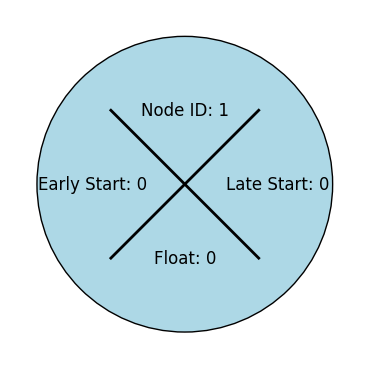
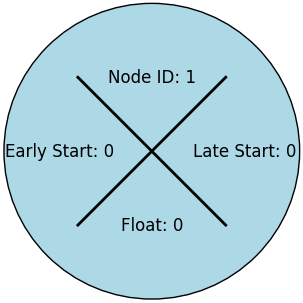
changed to reading from csv as input, added general CPM class

diff --git a/main.py b/main.py
@@ -1,75 +1,9 @@
 from Node import Czynnosc, Zdarzenie, clear_folder
-import csv
-from Node import Czynnosc, Zdarzenie
+from CPM import CPM
+from csv_read import read_csv
 
+clear_folder("nodes")
 
-def read_input_file(file_path):
-    data = []
-    with open(file_path, newline='') as csvfile:
-        reader = csv.DictReader(csvfile)
-        for row in reader:
-            data.append(row)
-    return data
+ilosc_zdarzen, zdarzenia, ilosc_czynnosci, czynnosci = read_csv("nodes.csv")
 
-
-def main():
-    file_path = input("Podaj ścieżkę do pliku CSV: ")
-    data = read_input_file(file_path)
-
-    # Initialize events and activities
-    czynnosci = []
-    zdarzenia = {}
-
-    # Create activities and events based on input data
-    for row in data:
-        name = row['name']
-        duration = int(row['duration'])
-        before_id = row['before']
-        after_id = row['after']
-
-        if before_id not in zdarzenia:
-            zdarzenia[before_id] = Zdarzenie(id=before_id)
-        if after_id not in zdarzenia:
-            zdarzenia[after_id] = Zdarzenie(id=after_id)
-
-        before_event = zdarzenia[before_id]
-        after_event = zdarzenia[after_id]
-
-        czynnosc = Czynnosc(name=name, duration=duration, before=before_event, after=after_event)
-        czynnosci.append(czynnosc)
-
-    # Calculate ti for each event
-    for czynnosc in czynnosci:
-        if czynnosc.before.ti + czynnosc.duration > czynnosc.after.ti:
-            czynnosc.after.ti = czynnosc.before.ti + czynnosc.duration
-
-    # Set tj for the last event
-    czynnosci[-1].after.tj = czynnosci[-1].after.ti
-
-    # Calculate tj for each event
-    for czynnosc in reversed(czynnosci):
-        if czynnosc.after.tj - czynnosc.duration < czynnosc.before.tj or czynnosc.before.tj == 0:
-            czynnosc.before.tj = czynnosc.after.tj - czynnosc.duration
-
-    # Calculate float for each event
-    for zdarzenie in zdarzenia.values():
-        zdarzenie.float = zdarzenie.tj - zdarzenie.ti
-
-    # Find critical path
-    sciezka_krytyczna = []
-    for zdarzenie in zdarzenia.values():
-        if zdarzenie.float == 0:
-            sciezka_krytyczna.append(zdarzenie)
-
-    # Print critical path
-    print("Zdarzenia:")
-    for zdarzenie in sorted(zdarzenia.values(), key=lambda z: int(z.id)):
-        print(f"Zdarzenie ID: {zdarzenie.id}, Ti: {zdarzenie.ti}, Tj: {zdarzenie.tj}, Float: {zdarzenie.float}")
-
-    print("\nSciezka krytyczna:")
-    for zdarzenie in sorted(sciezka_krytyczna, key=lambda z: int(z.id)):
-        print(zdarzenie.id)
-
-
-if __name__ == "__main__":
-    main()
+cpm_diagram = CPM(ilosc_zdarzen, zdarzenia, ilosc_czynnosci, czynnosci)

diff --git a/Diagram.py b/Diagram.py
@@ -1,23 +1,35 @@
-from diagrams import Diagram, Cluster
+import os
+from diagrams import Diagram, Edge
 from diagrams.custom import Custom
-from diagrams.onprem.database import Mysql
 
-def create_diagram():
+
+def create_diagram(zdarzenia_poprzedzajace_lista, zdarzenia, sciezka_krytyczna):
     # Specify the file path and format directly in the Diagram constructor
-    with Diagram("Custom Node Diagram", show=False, filename="./custom_node_diagram.png") as diag:
-        with Cluster("Nodes"):
-            # Add custom nodes with images
-            node_1 = Custom("Node 1", "./nodes/node_1.png")
-            node_2 = Custom("Node 2", "./nodes/node_2.png")
-            node_3 = Custom("Node 3", "./nodes/node_3.png")
+    with Diagram("CPM Diagram", show=False, filename="CPM_diagram",
+                 graph_attr={'size': '20,20', 'pad': '0.1'}, ) as diag:
+        # Dictionary to store nodes
+        nodes = {}
 
-            # Define the relationships between nodes
-            node_1 >> node_2
-            node_1 >> node_3
+        # Create nodes
+        for zdarzenie in zdarzenia:
+            if zdarzenie.id != "0":
+                node_name = f"Node {zdarzenie.id}"
+                node_image_path = os.path.join("nodes", f"node_{zdarzenie.id}.png")
+                node = Custom(node_name, node_image_path)
+                nodes[zdarzenie.id] = node
 
-            # Add regular nodes if needed
-            db = Mysql("Database")
-            node_2 >> db
+        # Define relationships between nodes
+        for zdarzenie in zdarzenia:
+            if zdarzenie.id != "0":
+                node = nodes[zdarzenie.id]
+                predecessors = zdarzenia_poprzedzajace_lista.get(zdarzenie.id, [])
+                for predecessor in predecessors:
+                    predecessor_id = predecessor.id
+                    predecessor_node = nodes[predecessor_id]
 
-# Call the function to create the diagram
-create_diagram()
+                    # Check if the edge belongs to the critical path
+                    if zdarzenie in sciezka_krytyczna and predecessor in sciezka_krytyczna:
+                        edge = Edge(color="red", style="bold", arrowhead="vee")
+                        predecessor_node >> edge >> node
+                    else:
+                        predecessor_node >> node

diff --git a/CPM.py b/CPM.py
@@ -1,0 +1,57 @@
+from Node import Czynnosc, Zdarzenie, clear_folder
+from Diagram import create_diagram
+
+class CPM:
+    def __init__(self, ilosc_zdarzen, zdarzenia, ilosc_czynnosci, czynnosci):
+        self.ilosc_zdarzen = ilosc_zdarzen + 1
+        self.ilosc_czynnosci = ilosc_czynnosci
+        self.zdarzenia = zdarzenia
+        self.czynnosci = czynnosci
+
+        # Calculate ti for each event
+        for czynnosc in self.czynnosci:
+            if czynnosc.before.ti + czynnosc.duration > czynnosc.after.ti:
+                czynnosc.after.ti = czynnosc.before.ti + czynnosc.duration
+
+        czynnosci[-1].after.tj = czynnosci[-1].after.ti
+
+        # Calculate tj for each event
+        for czynnosc in reversed(czynnosci):
+            if czynnosc.after.tj - czynnosc.duration < czynnosc.before.tj or czynnosc.before.tj == 0:
+                czynnosc.before.tj = czynnosc.after.tj - czynnosc.duration
+
+        for zdarzenie in zdarzenia:
+            zdarzenie.float = zdarzenie.tj - zdarzenie.ti
+
+        for czynnosc in self.czynnosci:
+            print(czynnosc.name, czynnosc.before.ti, czynnosc.before.tj, czynnosc.after.ti, czynnosc.after.tj)
+
+        sciezka_krytyczna = []
+        for zdarzenie in zdarzenia:
+            if zdarzenie.float == 0:
+                sciezka_krytyczna.append(zdarzenie)
+
+        for zdarzenie in zdarzenia:
+            if zdarzenie.id != "0":
+                zdarzenie.draw()
+                # print(zdarzenie)
+
+        # print("Sciezka krytyczna:")
+        # for zdarzenie in sciezka_krytyczna:
+        #     print(zdarzenie.id)
+
+        # Define a dictionary to store events leading into each event
+        events_leading_to = {z.id: [] for z in zdarzenia}
+
+        # Populate the dictionary with events leading into each event
+        for czynnosc in czynnosci:
+            events_leading_to[czynnosc.after.id].append(czynnosc.before)
+
+        # Print events leading into each event
+        # for zdarzenie in zdarzenia:
+        #     if zdarzenie.id != "0" and zdarzenie.id != "1":
+        #         print(f"Events leading into Zdarzenie {zdarzenie.id}:")
+        #         for event in events_leading_to[zdarzenie.id]:
+        #             print(event.id)
+
+        create_diagram(events_leading_to, zdarzenia, sciezka_krytyczna)

diff --git a/csv_read.py b/csv_read.py
@@ -1,0 +1,31 @@
+import csv
+from Node import Czynnosc, Zdarzenie, clear_folder
+
+def read_csv(filename):
+    czynnosci = []
+    zdarzenia = []
+
+    with open(filename, newline='') as csvfile:
+        reader = csv.reader(csvfile)
+        ilosc_czynnosci = int(next(reader)[0])
+        ilosc_zdarzen = int(next(reader)[0])
+
+    zdarzenia.append(Zdarzenie(id="0"))
+    zdarzenia.append(Zdarzenie(id="1", ti=0))
+    for i in range(2, ilosc_zdarzen + 1):
+        zdarzenia.append(Zdarzenie(id=str(i)))
+
+
+    with open(filename, newline='') as csvfile:
+        reader = csv.reader(csvfile)
+        next(reader)  # Skip the first two lines
+        next(reader)
+        for row in reader:
+            name, duration, before_id, after_id = row
+            duration = int(duration)
+            before_event = zdarzenia[int(before_id)]
+            after_event = zdarzenia[int(after_id)]
+            activity = Czynnosc(name=name, duration=duration, before=before_event, after=after_event)
+            czynnosci.append(activity)
+
+    return ilosc_zdarzen, zdarzenia, ilosc_czynnosci, czynnosci

diff --git a/Node.py b/Node.py
@@ -60,7 +60,7 @@ class Zdarzenie:  # kolka
         ax.set_xlim(0, 1)
         ax.set_ylim(0, 1)
         ax.axis('off')
-        plt.savefig(filepath, bbox_inches='tight', pad_inches=0)
+        plt.savefig(filepath, bbox_inches='tight', pad_inches=-0.33)
         plt.close()
 
 
